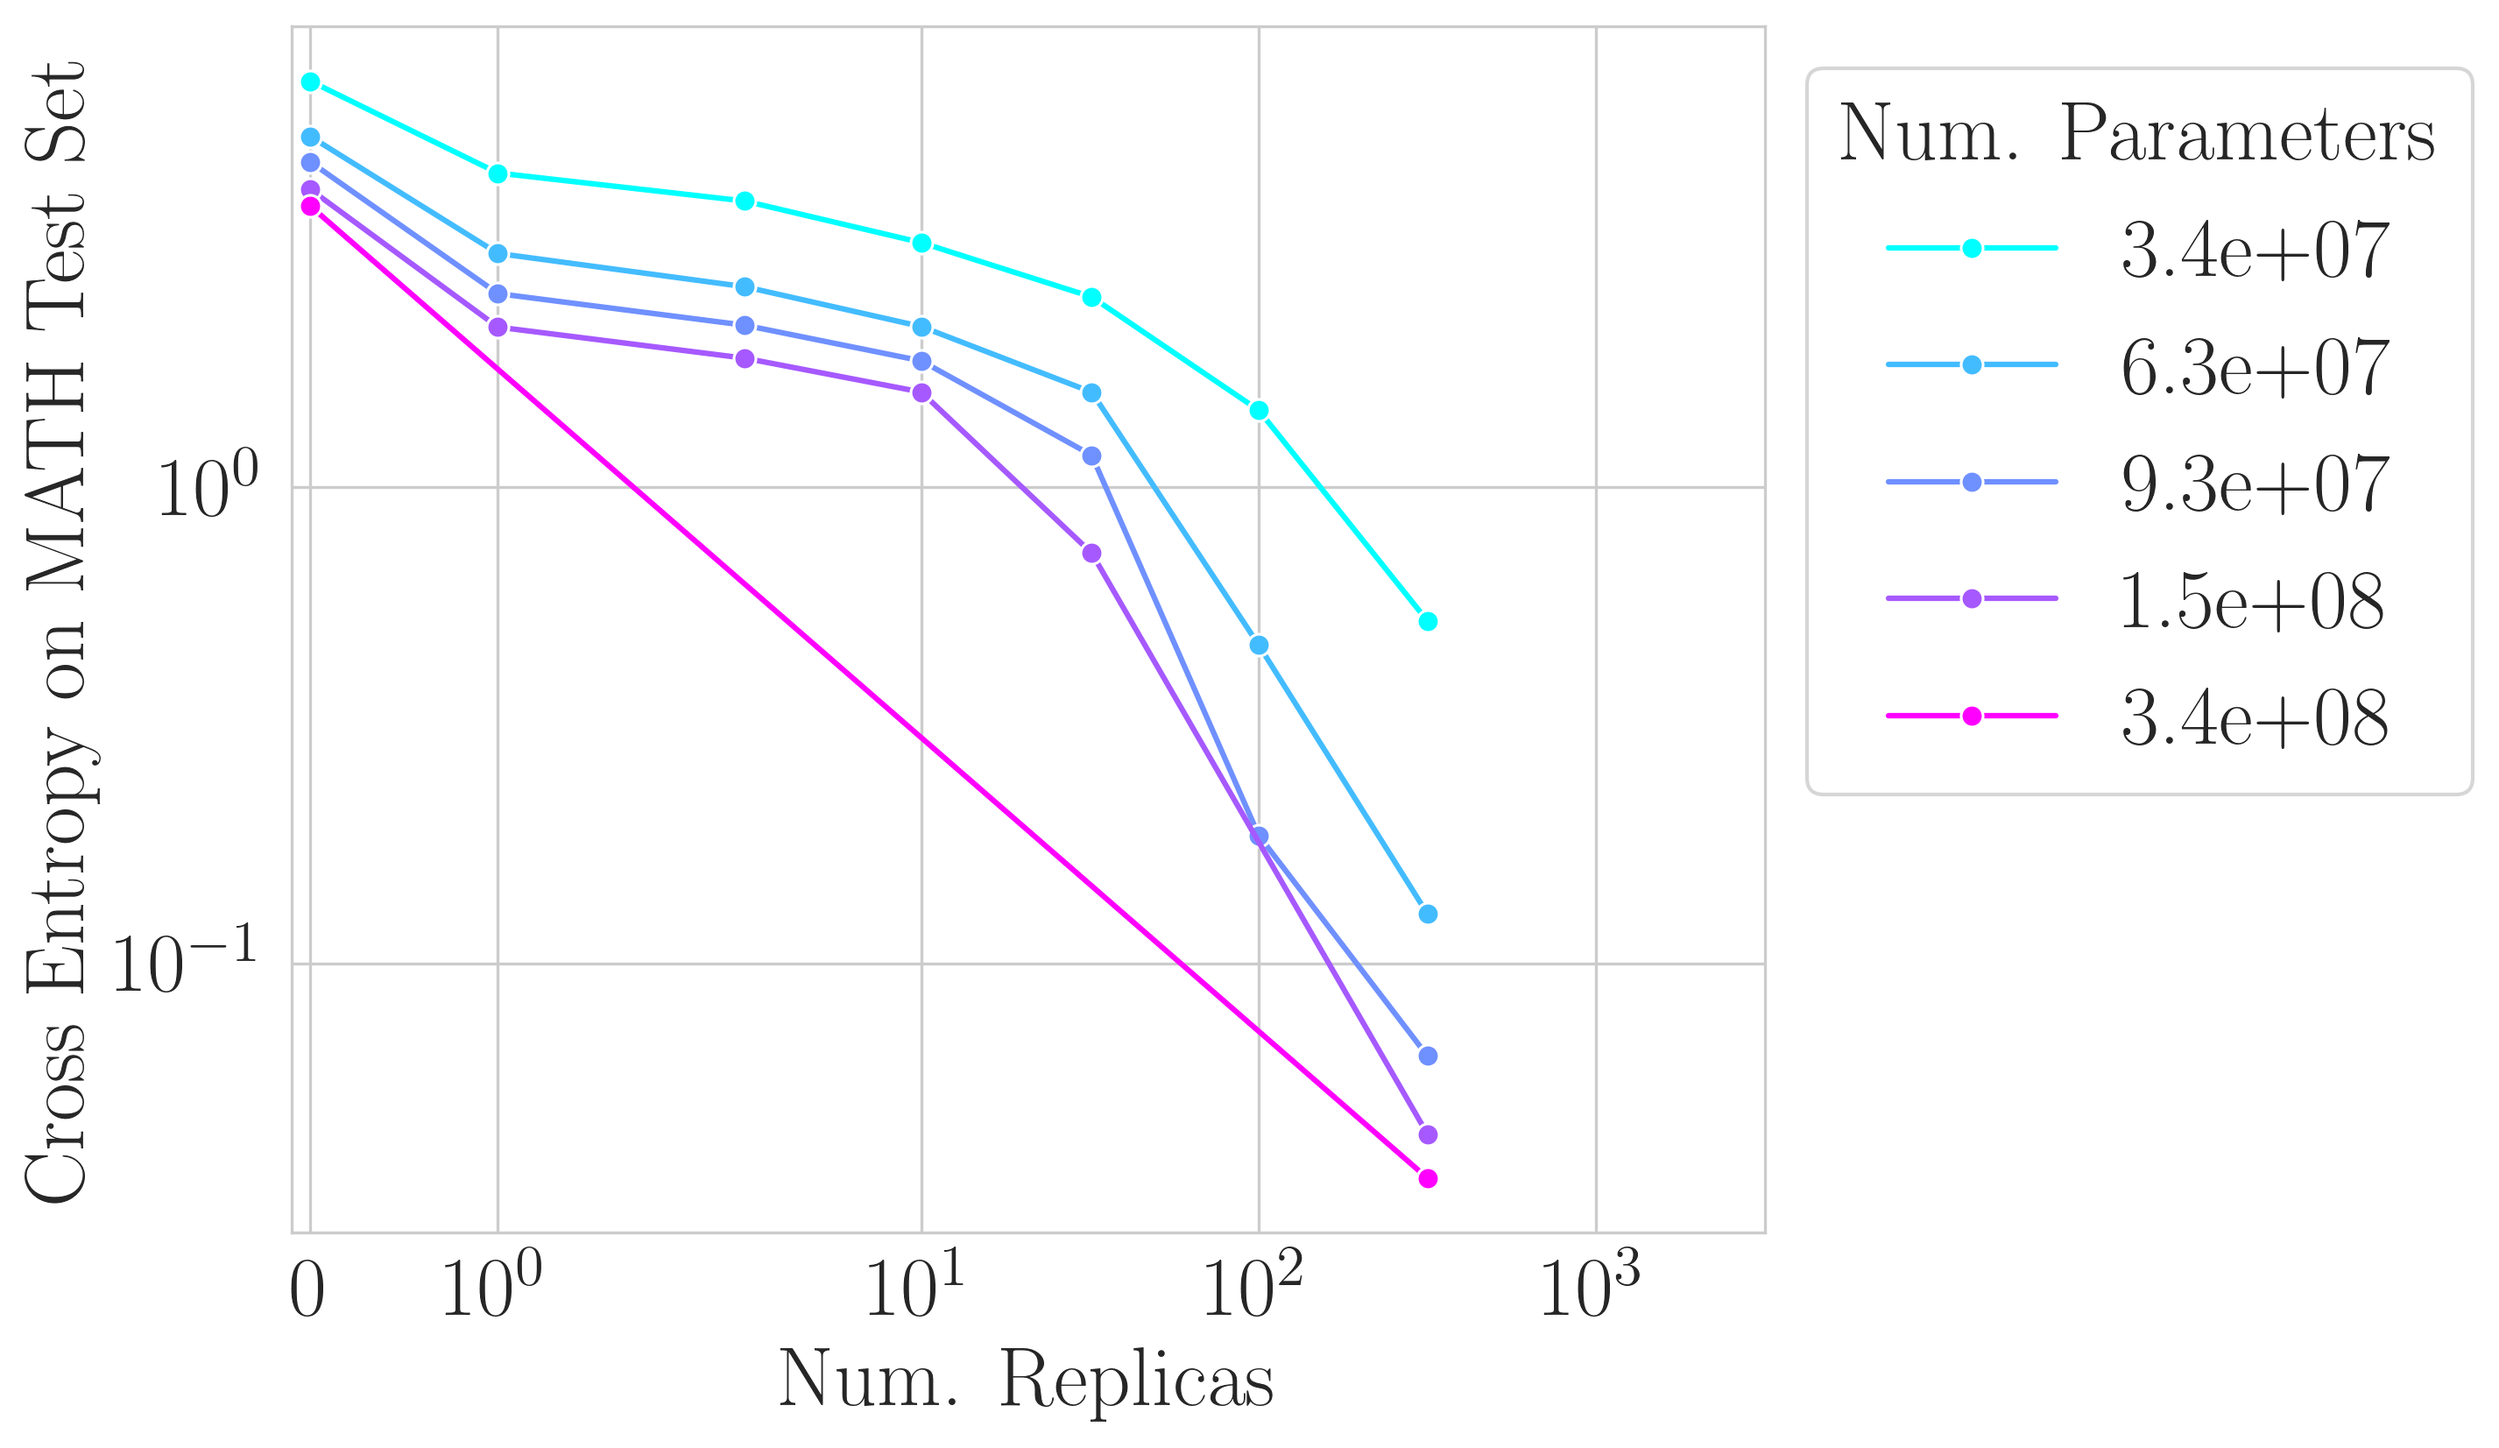
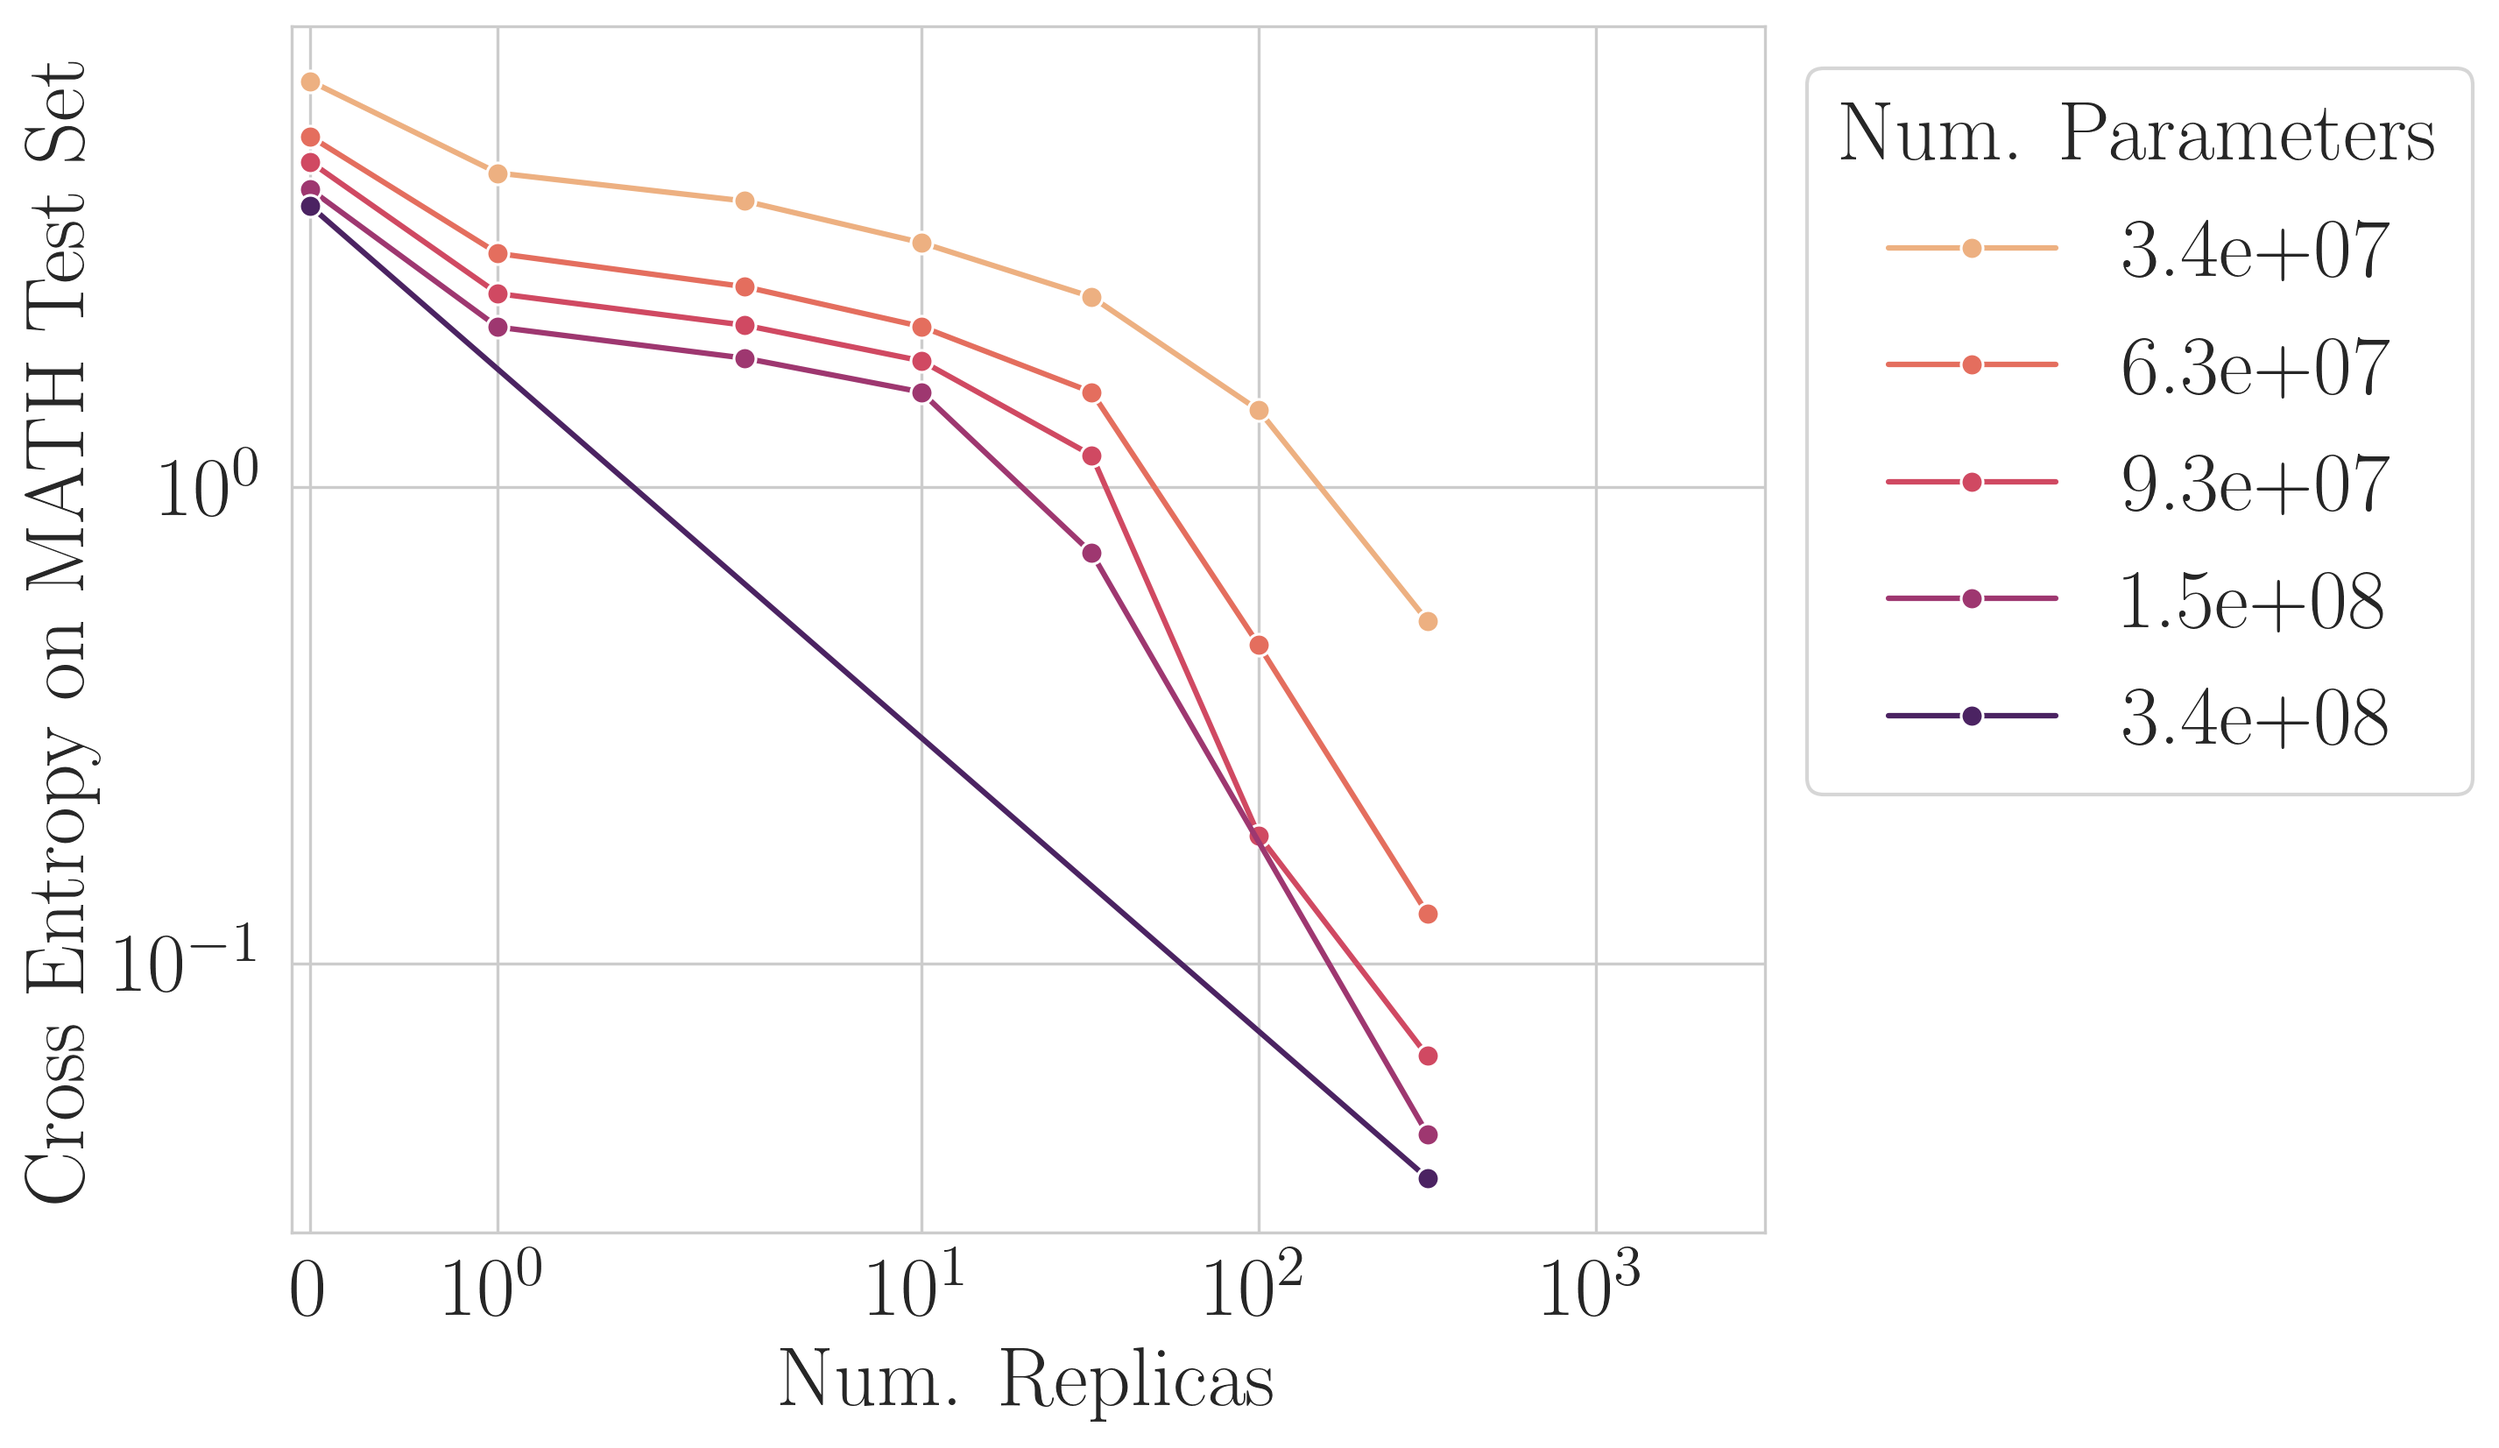
Created eval configs.

diff --git a/notebooks/10_gen_eval_math_qwen3_pt/10_gen_eval_math_qwen3_pt.py b/notebooks/10_gen_eval_math_qwen3_pt/10_gen_eval_math_qwen3_pt.py
@@ -15,8 +15,8 @@ import src.analyze
 import src.globals
 import src.plot
 
-# refresh = False
-refresh = True
+refresh = False
+# refresh = True
 
 data_dir, results_dir = src.analyze.setup_notebook_dir(
     notebook_dir=os.path.dirname(os.path.abspath(__file__)),
@@ -124,7 +124,7 @@ g = sns.lineplot(
     y="eval_after/eval_benchmark_loss",
     hue="Num. Parameters",
     hue_norm=matplotlib.colors.LogNorm(),
-    palette="cool",
+    palette="flare",
     # col="Overtrain Multiplier",
     marker="o",
     legend="full",
@@ -141,7 +141,7 @@ src.plot.save_plot_with_multiple_extensions(
     plot_dir=results_dir,
     plot_filename="y=loss_x=num_replicas_hue=num_parameters",
 )
-# plt.show()
+plt.show()
 
 plt.close()
 plt.figure(figsize=(10, 6))
